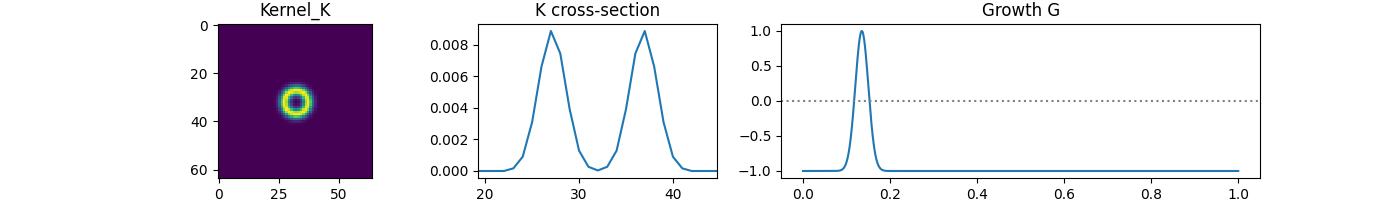
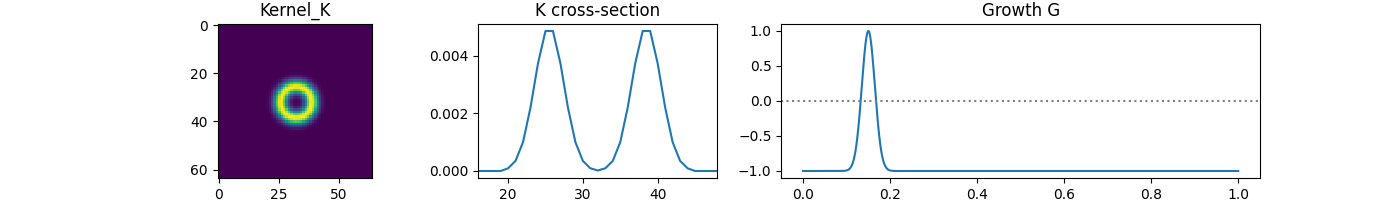
Run_Lenia complete

diff --git a/Project/sandbox/Lenia/run_lenia.py b/Project/sandbox/Lenia/run_lenia.py
@@ -1,8 +1,15 @@
 # !/usr/bin/env python3
 
-"""New run lenia script
+"""
+Run and render lenia with any input set of parameters.
 
-compile from input parameters"""
+Pass name of file from command line. File should be in the results/parameters folder. No additional path or .csv
+is required. Only the bare file name- which is in the results/parameters folder.
+
+Lenia will run parameters and produce two files:
+    1. A kernel cross section + growth function png, named after the input filenmae
+    2. A rendered animation of the life form from input parameters
+"""
 #### PREPARATION ####
 ## IMPORTS ##
 import numpy as np
@@ -80,27 +87,7 @@ def load_parameters(filename):
     dict["cells"] = cells
     return dict
 
-
-orbium = {"name":"Orbium","R":13,"T":10,"m":0.15,"s":0.015,"b":[1],
-  "cells":[[0,0,0,0,0,0,0.1,0.14,0.1,0,0,0.03,0.03,0,0,0.3,0,0,0,0], [0,0,0,0,0,0.08,0.24,0.3,0.3,0.18,0.14,0.15,0.16,0.15,0.09,0.2,0,0,0,0], [0,0,0,0,0,0.15,0.34,0.44,0.46,0.38,0.18,0.14,0.11,0.13,0.19,0.18,0.45,0,0,0], [0,0,0,0,0.06,0.13,0.39,0.5,0.5,0.37,0.06,0,0,0,0.02,0.16,0.68,0,0,0], [0,0,0,0.11,0.17,0.17,0.33,0.4,0.38,0.28,0.14,0,0,0,0,0,0.18,0.42,0,0], [0,0,0.09,0.18,0.13,0.06,0.08,0.26,0.32,0.32,0.27,0,0,0,0,0,0,0.82,0,0], [0.27,0,0.16,0.12,0,0,0,0.25,0.38,0.44,0.45,0.34,0,0,0,0,0,0.22,0.17,0], [0,0.07,0.2,0.02,0,0,0,0.31,0.48,0.57,0.6,0.57,0,0,0,0,0,0,0.49,0], [0,0.59,0.19,0,0,0,0,0.2,0.57,0.69,0.76,0.76,0.49,0,0,0,0,0,0.36,0], [0,0.58,0.19,0,0,0,0,0,0.67,0.83,0.9,0.92,0.87,0.12,0,0,0,0,0.22,0.07], [0,0,0.46,0,0,0,0,0,0.7,0.93,1,1,1,0.61,0,0,0,0,0.18,0.11], [0,0,0.82,0,0,0,0,0,0.47,1,1,0.98,1,0.96,0.27,0,0,0,0.19,0.1], [0,0,0.46,0,0,0,0,0,0.25,1,1,0.84,0.92,0.97,0.54,0.14,0.04,0.1,0.21,0.05], [0,0,0,0.4,0,0,0,0,0.09,0.8,1,0.82,0.8,0.85,0.63,0.31,0.18,0.19,0.2,0.01], [0,0,0,0.36,0.1,0,0,0,0.05,0.54,0.86,0.79,0.74,0.72,0.6,0.39,0.28,0.24,0.13,0], [0,0,0,0.01,0.3,0.07,0,0,0.08,0.36,0.64,0.7,0.64,0.6,0.51,0.39,0.29,0.19,0.04,0], [0,0,0,0,0.1,0.24,0.14,0.1,0.15,0.29,0.45,0.53,0.52,0.46,0.4,0.31,0.21,0.08,0,0], [0,0,0,0,0,0.08,0.21,0.21,0.22,0.29,0.36,0.39,0.37,0.33,0.26,0.18,0.09,0,0,0], [0,0,0,0,0,0,0.03,0.13,0.19,0.22,0.24,0.24,0.23,0.18,0.13,0.05,0,0,0,0], [0,0,0,0,0,0,0,0,0.02,0.06,0.08,0.09,0.07,0.05,0.01,0,0,0,0,0]]
-}
-
-orbium = load_parameters("orbium_classic")
-
-bell = lambda x, m, s: np.exp(-((x - m) / s) ** 2 / 2)  # Gaussian function
-
-
-size = 64;
-mid = size // 2;
-cx, cy = 20, 20
-globals().update(orbium)  # load orbium pattern
-
-"""Load learning and obstacle channel"""
-C = np.asarray(cells)
-A = np.zeros([size, size])  # Initialise learning channel, A
-A[cx:cx + C.shape[0], cy:cy + C.shape[1]] = C  # Load initial configurations into learning channel)
-
-def load_obstacles(n, r=5, seed = 0):
+def load_obstacles(n, size, r=5, seed = 0):
     """Load obstacle channel with random configuration
     of n obstacles with radius r"""
     # Sample center point coordinates a, b
@@ -111,18 +98,7 @@ def load_obstacles(n, r=5, seed = 0):
         O[mid_point[0]:mid_point[0] + r, mid_point[1]:mid_point[1] + r] = 1  # load obstacles
     return O
 
-# Load obstacle configuration
-O = load_obstacles(n=6)
-
-As = [A, O]  # List of channels
-
-"""Create kernel for learning channel"""
-D = np.linalg.norm(np.ogrid[-mid:mid, -mid:mid])/R
-# D = np.linalg.norm(np.asarray(np.ogrid[-R:R, -R:R]) + 1)/R
-K = (D < 1) * bell(D, 0.5, 0.15)  ## Transform all distances within radius 1 along smooth gaussian gradient
-K = K / np.sum(K)  # Normalise between 0:1
-fK = np.fft.fft2(np.fft.fftshift(K))  # fourier transform
-
+bell = lambda x, m, s: np.exp(-((x - m) / s) ** 2 / 2)  # Gaussian function
 
 def growth(U):
     return bell(U, m, s) * 2 - 1
@@ -143,10 +119,42 @@ def update(i):
     return img,
 
 
-np.random.seed(0)
-print("rendering animation...")
-fig = figure_world(sum(As))
-anim = animation.FuncAnimation(fig, update, frames=200, interval=20)
-anim.save("results/classic_orbium_anim.gif", writer="imagemagick")
-print("process complete")
+def main(argv):
+    """Compile and render LEnia animation from input parameters"""
+    filename = argv[1]
+    orbium = load_parameters(filename)
 
+    size = 64;
+    mid = size // 2;
+    cx, cy = 20, 20
+    globals().update(orbium)  # load orbium pattern
+
+    """Load learning channel"""
+    C = np.asarray(cells)
+    A = np.zeros([size, size])  # Initialise learning channel, A
+    A[cx:cx + C.shape[0], cy:cy + C.shape[1]] = C  # Load initial configurations into learning channel)
+
+    """Load obstacle configuration"""
+    O = load_obstacles(n=6, size = size)
+
+    """Create kernel for learning channel"""
+    D = np.linalg.norm(np.ogrid[-mid:mid, -mid:mid])/R
+    K = (D < 1) * bell(D, 0.5, 0.15)  ## Transform all distances within radius 1 along smooth gaussian gradient
+    K = K / np.sum(K)  # Normalise between 0:1
+
+    global As, fK  # Make properties global
+    fK = np.fft.fft2(np.fft.fftshift(K))  # fourier transform kernel
+    As = [A, O]  # List of channels
+
+    figure_asset(K, growth)
+    plt.savefig("results/"+filename+"_kernel.png")
+
+    print("rendering animation...")
+    fig = figure_world(sum(As))
+    anim = animation.FuncAnimation(fig, update, frames=200, interval=20)
+    anim.save("results/"+filename+"_anim.gif", writer="imagemagick")
+    print("process complete")
+
+
+if __name__ == "__main__":
+    main(sys.argv)
